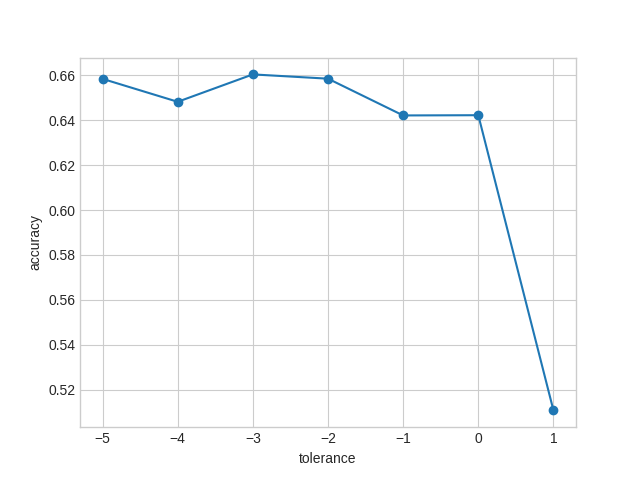
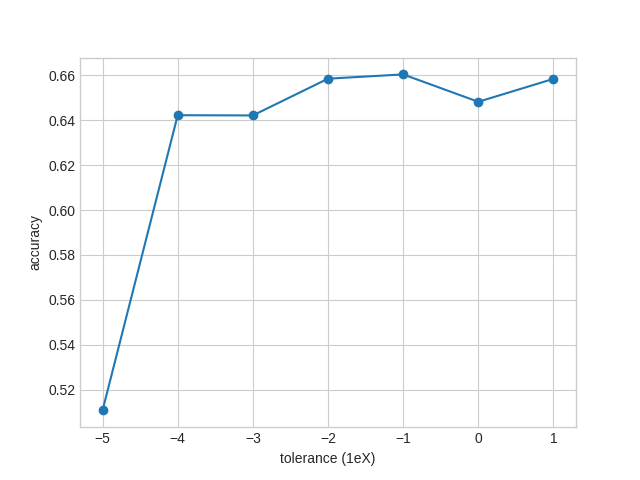
final results

diff --git a/error_functions.py b/error_functions.py
@@ -36,7 +36,7 @@ def set_axes(method_name,ax):
     elif(method_name == "DT"):
         ax.set_xlabel('tree height')
     elif(method_name == "SVM"):
-        ax.set_xlabel('tolerance')
+        ax.set_xlabel('tolerance (1eX)')
 
 
 def fold(kf, data_train, K, option, method):
@@ -104,7 +104,7 @@ def KFoldValidation(K,method,show=False): # K-folds N<K
         variances.append(results[1])
         errors.append(1-results[0])
     if(method_name == "SVM"):
-        options = [1, 0, -1,- 2, -3, -4, -5]
+        options = [-5, -4, -3, -2, -1, 0 , 1]
     print("Kfold----- ")
     print("Best i: ",best_i, " best option: ",best_option)
     plot(options,accuracies,variances,method_name,'Kfold')
@@ -155,7 +155,7 @@ def bootstrap(K,method,show= False): # K-folds N<K
         variances.append(results[1])
         errors.append(1-results[0])
     if(method_name == "SVM"):
-        options = [1, 0, -1,- 2, -3, -4, -5]
+        options =  [-5, -4, -3, -2, -1, 0 , 1]
     print("Boostrap----- ")
     print("Best K: ",best_i, " best option: ",best_option)
     
